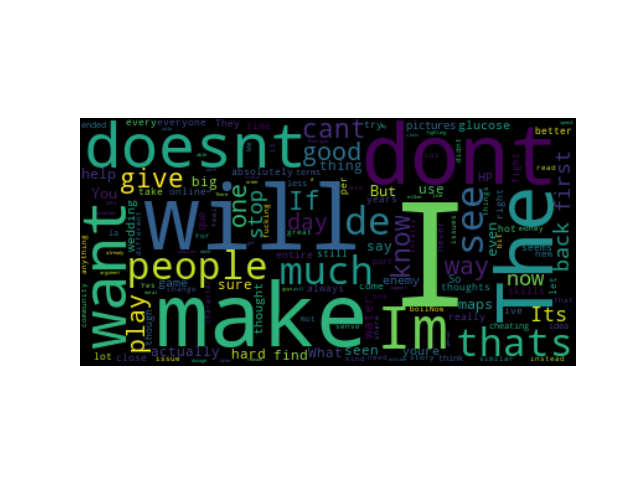
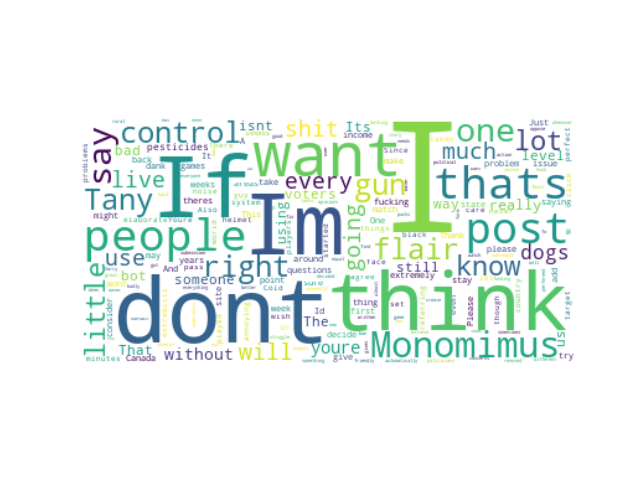
added bootstrap, cleaned a bit

diff --git a/templates/index.html b/templates/index.html
@@ -1,19 +1,19 @@
-<!DOCTYPE html>
+{% extends "bootstrap/base.html" %}
+
 <html lang="en">
 <head>
     <meta charset="UTF-8">
     <!--<meta charset="UTF-8" http-equiv="refresh" content="3">-->
-    <!--<meta charset="UTF-8" HTTP-EQUIV="refresh" CONTENT="5">-->
     <title>{{ name }}</title>
 </head>
-<body>
+
+{% block content %}
+<body style="text-align:center">
+    <div>time taken: {{ time_taken }}</div>
     <p>
-        <!--<img src="/home/piotrek/PycharmProjects/reddit_playground/static/new_plot.png" alt="new plot" height="120" width="180">-->
-        <img src="{{ url_for('static', filename = 'new_plot.png') }}" alt="new_plot" height="420" width="620">
-        <!--<img src="/static/new_plot.png" alt="new_plot" height="420" width="620">-->
+        <img src="{{ url_for('static', filename = 'new_plot.png') }}" alt="new_plot" height="480" width="640">
     </p>
-    <h1>{{ st }}</h1>
-    <br>
-    <p>{{ c_st }}</p>
 </body>
+{% endblock %}
+
 </html>

diff --git a/app.py b/app.py
@@ -6,9 +6,12 @@ import praw
 import time
 import os
 import config
+from flask_bootstrap import Bootstrap
+# import pandas as pd
 
 
 app = Flask(__name__, static_folder=config.static_folder, static_url_path=config.static_url_path)
+bootstrap = Bootstrap(app)
 
 app.secret_key = config.SECRET_KEY
 # app.config.from_object('config')
@@ -38,6 +41,7 @@ def dated_url_for(endpoint, **values):
 
 @app.route('/', methods=['GET', 'POST'])
 def index():
+    start1 = time.time()
     start = time.time()
     output = get_first_comments(reddit, no_comments)
     print("{} - to get {} comments".format(time.time() - start, no_comments))
@@ -51,16 +55,12 @@ def index():
     output2 = output.copy()
     for key, value in output2.items():
         if key in STOPWORDS:
-            # print(key)
             del output[key]
-        #     pass
-        # else:
-        #     output2[key] = value
     del output['']
     print('{} len(output) after cleaning that took {} ;;; output:'.format(len(output.keys()), time.time() - start))
     print(output)
     start = time.time()
-    wc = WordCloud().generate_from_frequencies(output)
+    wc = WordCloud(background_color='white').generate_from_frequencies(output)
     plt.figure()
     plt.imshow(wc, interpolation="bilinear")
     plt.axis("off")
@@ -68,9 +68,9 @@ def index():
     plt.clf()
     print('_________________')
     print("{} - to draw a figure".format(time.time() - start))
-
-    return render_template('index.html', name='word cloud', cache=-1)
+    time_taken = time.time() - start1
+    return render_template('index.html', name='word cloud', time_taken=time_taken, cache=-1)
 
 
 if __name__ == '__main__':
-    app.run(debug=config.DEBUG)
+    app.run(debug=config.DEBUG, port=config.port)
